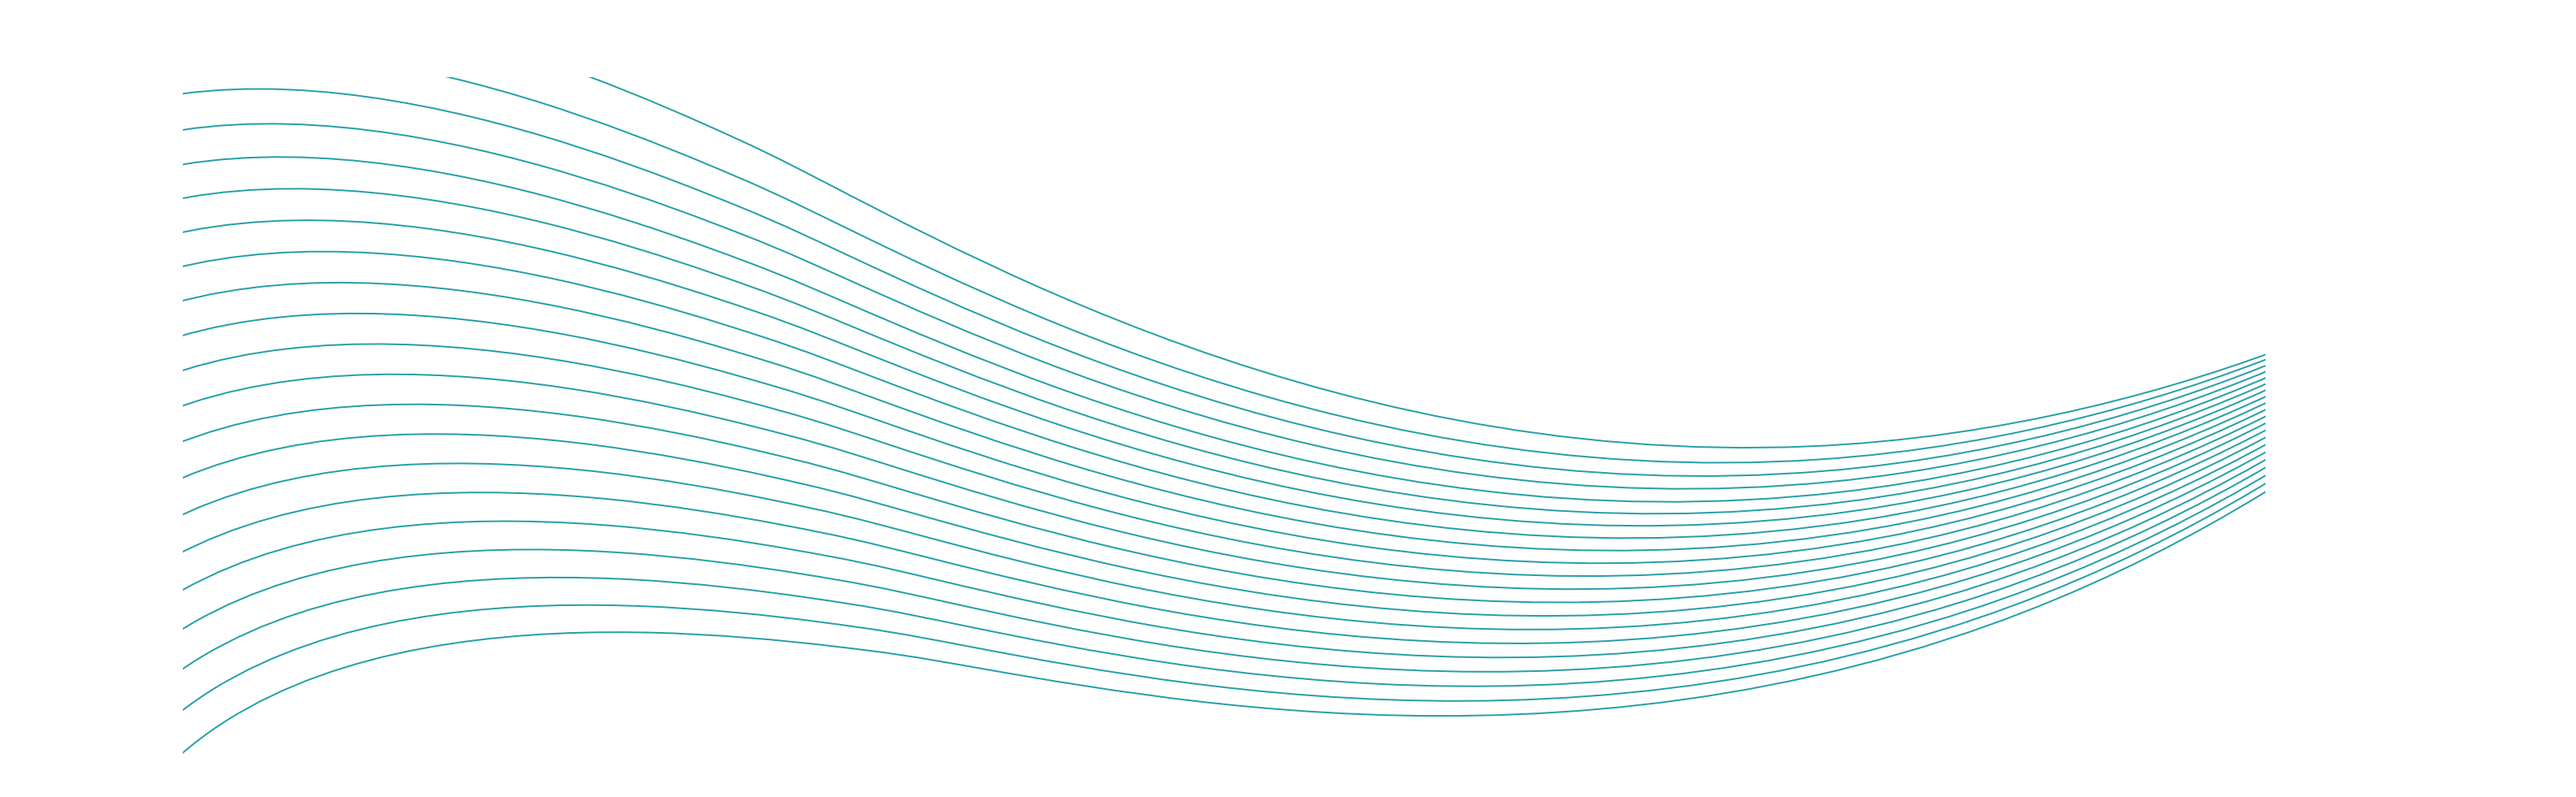
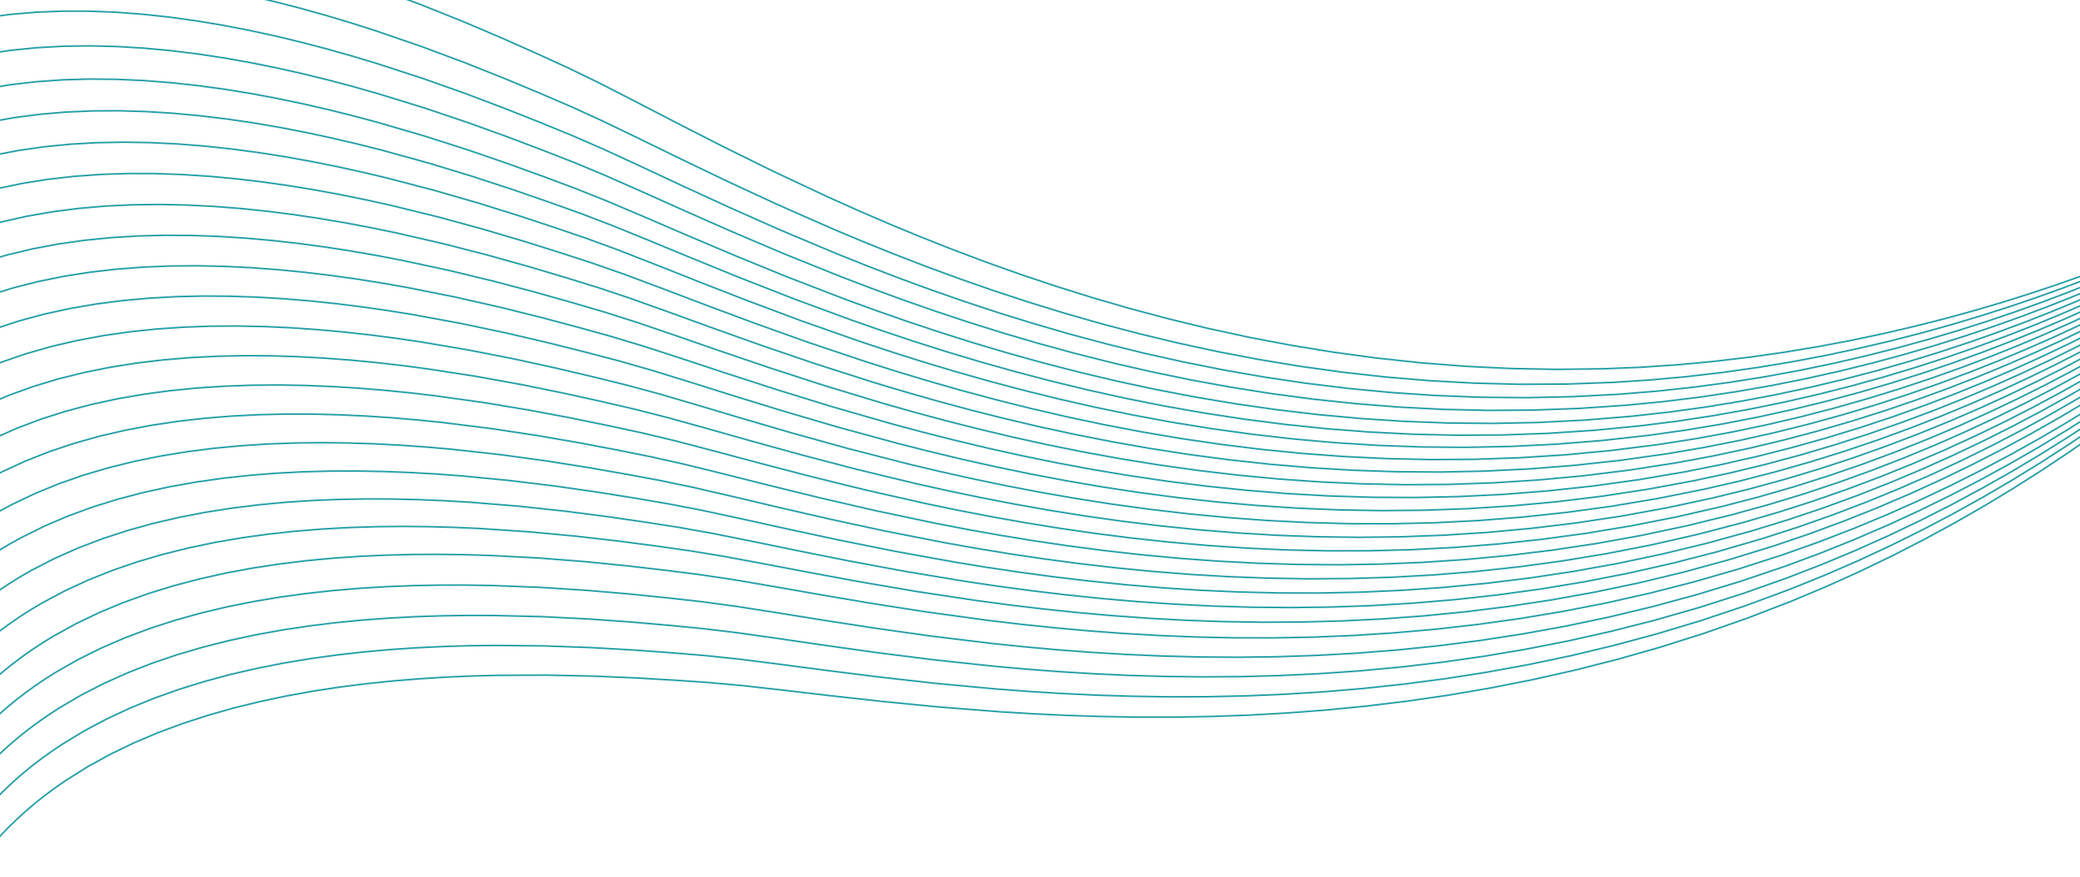
locked in bg image and slash position

diff --git a/style.css b/style.css
@@ -10,8 +10,12 @@ html {
 }
 
 body {
+  position: relative;
   font-family: "Courier Prime", serif;
-  overflow-x: hidden;
+  margin: 0;
+  padding: 0;
+  overflow-x: hidden; 
+  width: 100%;
   background: linear-gradient(
     to right,
     #080c11 10%,
@@ -19,18 +23,46 @@ body {
     #22364a 80%,
     #275075 100%
   );
-
 }
 
-.bg-layer {
-position: absolute;
-  inset: 0;
+.background-clip-container {
+  position: absolute;
+  top: 0;
+  left: 0;
+  width: 100%;
+  height: 100%; 
+  overflow: hidden; 
   z-index: -11;
+  pointer-events: none; 
+}
 
-  background-image: url("/img/BgWave01.png");
+
+.tier-one, .tier-two, .tier-three {
+  position: absolute;
+  left: 0;
+  width: 100vw; 
   background-repeat: no-repeat;
-  background-position: center 180%;
-  background-size: 2560px auto;
+  background-size: 100%; 
+  background-position: top center;
+}
+
+.tier-one {
+  top: -70px;
+  height: 981px; 
+  background-image: url("/img/BgWave01.png");
+}
+
+.tier-two {
+  top: 170px; 
+  height: 1878px; 
+  background-image: url("/img/BigWave02.png");
+}
+
+.tier-three {
+  top: 1200px; 
+  height: 3403px; 
+  background-image: url("/img/BigWave03.png");
+ 
 }
 
 .page {
@@ -116,6 +148,7 @@ nav ul {
   justify-content: center;
   align-items: center;
   min-height: 80vh;
+  width: 100%;
 }
 .name {
   position: absolute;
@@ -130,7 +163,7 @@ nav ul {
 
 .title-wrapper {
   display: flex;
-  align-items: center;
+  align-items: baseline;
   gap: 40px;
   z-index: 2;
 }
@@ -150,15 +183,40 @@ nav ul {
 }
 
 /* The Slash / Divider */
-.slash {
+
+.slash-wrapper {
   position: absolute;
-  font-family: "Rubik Mono One", sans-serif;
-  font-size: 15em;
-  margin-left: 390px;
-  margin-top: 30px;
-  color: #121c26;
+  top: 17%;      /* move wrapper vertically */
+  left: 49%;     /* move wrapper horizontally */
   z-index: -10;
 }
+
+.slash {
+  position: absolute;
+  top: 50%;
+  left: 50%;
+
+  transform: translate(60%, -690%);
+  font-family: "Rubik Mono One", sans-serif;
+  font-size: 20vw;
+  color: #121c26;
+  z-index: -10;
+  animation: float-dialed 6s ease-in-out infinite;
+}
+ @keyframes float-dialed {
+
+  0%, 100% { transform: translateY(0); }
+  50% { transform: translateY(-10px); }
+
+} 
+/* @keyframes float-dialed {
+  0%, 100% { 
+    transform: translate(10%, 10%); 
+  }
+  50% { 
+    transform: translate(-30%, -35%); 
+  }
+} */
 
 /* --- SECTION HEADERS --- */
 

diff --git a/index.html b/index.html
@@ -18,11 +18,11 @@
       rel="stylesheet"
       crossorigin="anonymous"
     />
-    
+
     <!-- GitHub Heatmap -->
     <link
-    rel="stylesheet"
-    href="https://unpkg.com/github-calendar@latest/dist/github-calendar-responsive.css"
+      rel="stylesheet"
+      href="https://unpkg.com/github-calendar@latest/dist/github-calendar-responsive.css"
     />
     <!-- Style Sheet -->
     <link rel="stylesheet" href="style.css" />
@@ -30,9 +30,14 @@
     <title>Dan Finley Codes</title>
   </head>
 
-  <body> 
-    <div class="bg-layer"></div>
-    
+  <body>
+    <!-- **BACKGROUND IMAGES -->
+    <div class="background-clip-container">
+      <div class="bg-layer tier-one"></div>
+      <div class="bg-layer tier-two"></div>
+      <div class="bg-layer tier-three"></div>
+    </div>
+
     <div class="page">
       <!-- **NAV -->
       <section class="site-nav">
@@ -60,7 +65,10 @@
           <div class="name">Dan Finley</div>
           <div class="title-wrapper">
             <div class="title developer">Developer</div>
-            <div class="slash">/</div>
+            <div class="slash-wrapper">
+              <div class="slash">/</div>
+            </div>
+
             <div class="title designer">Designer</div>
           </div>
         </div>
@@ -416,9 +424,6 @@
       </div>
     </div>
 
-
-    
-
     <!-- **ABOUT -->
     <section id="about">
       <h2>About Dan Finley</h2>
@@ -498,19 +503,16 @@
       </div>
     </footer>
 
-
-
     <!-- **Bootstrap JS Bundle (includes Popper) -->
     <script
       src="https://cdn.jsdelivr.net/npm/bootstrap@5.3.3/dist/js/bootstrap.bundle.min.js"
       crossorigin="anonymous"
     ></script>
-    
-<!-- Github Heatmap -->
+
+    <!-- Github Heatmap -->
     <script src="https://unpkg.com/github-calendar@latest/dist/github-calendar.min.js"></script>
 
     <!-- Custom **JavaScript -->
     <script src="script.js"></script>
-    
   </body>
 </html>
